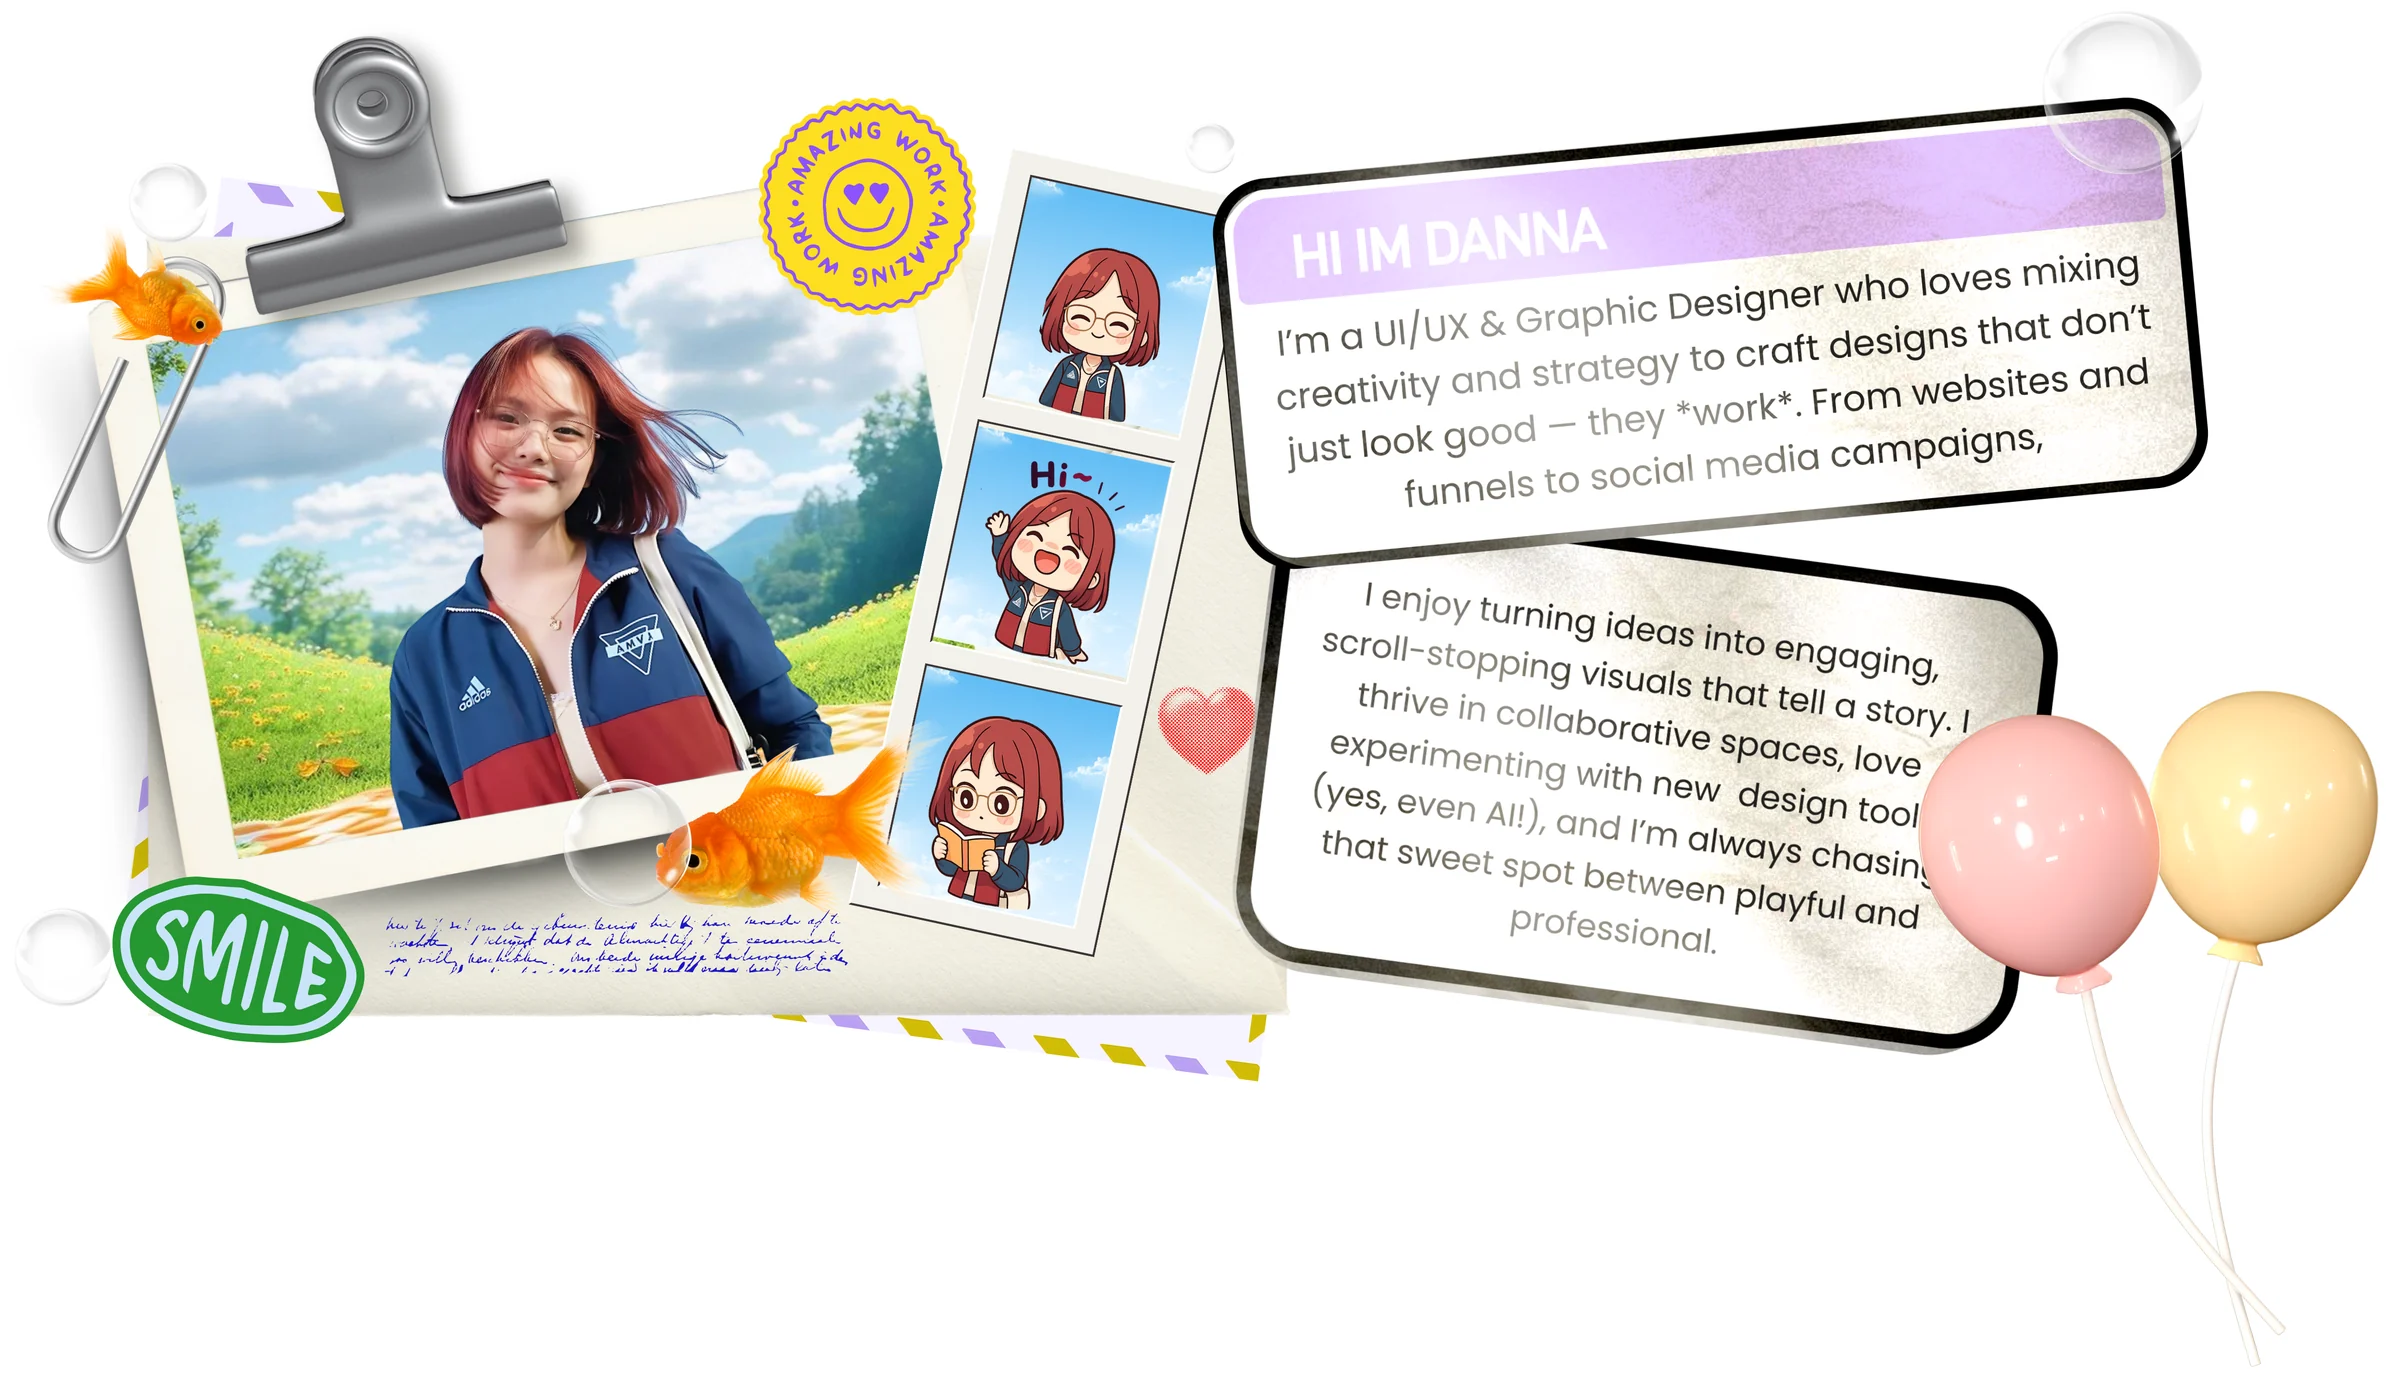
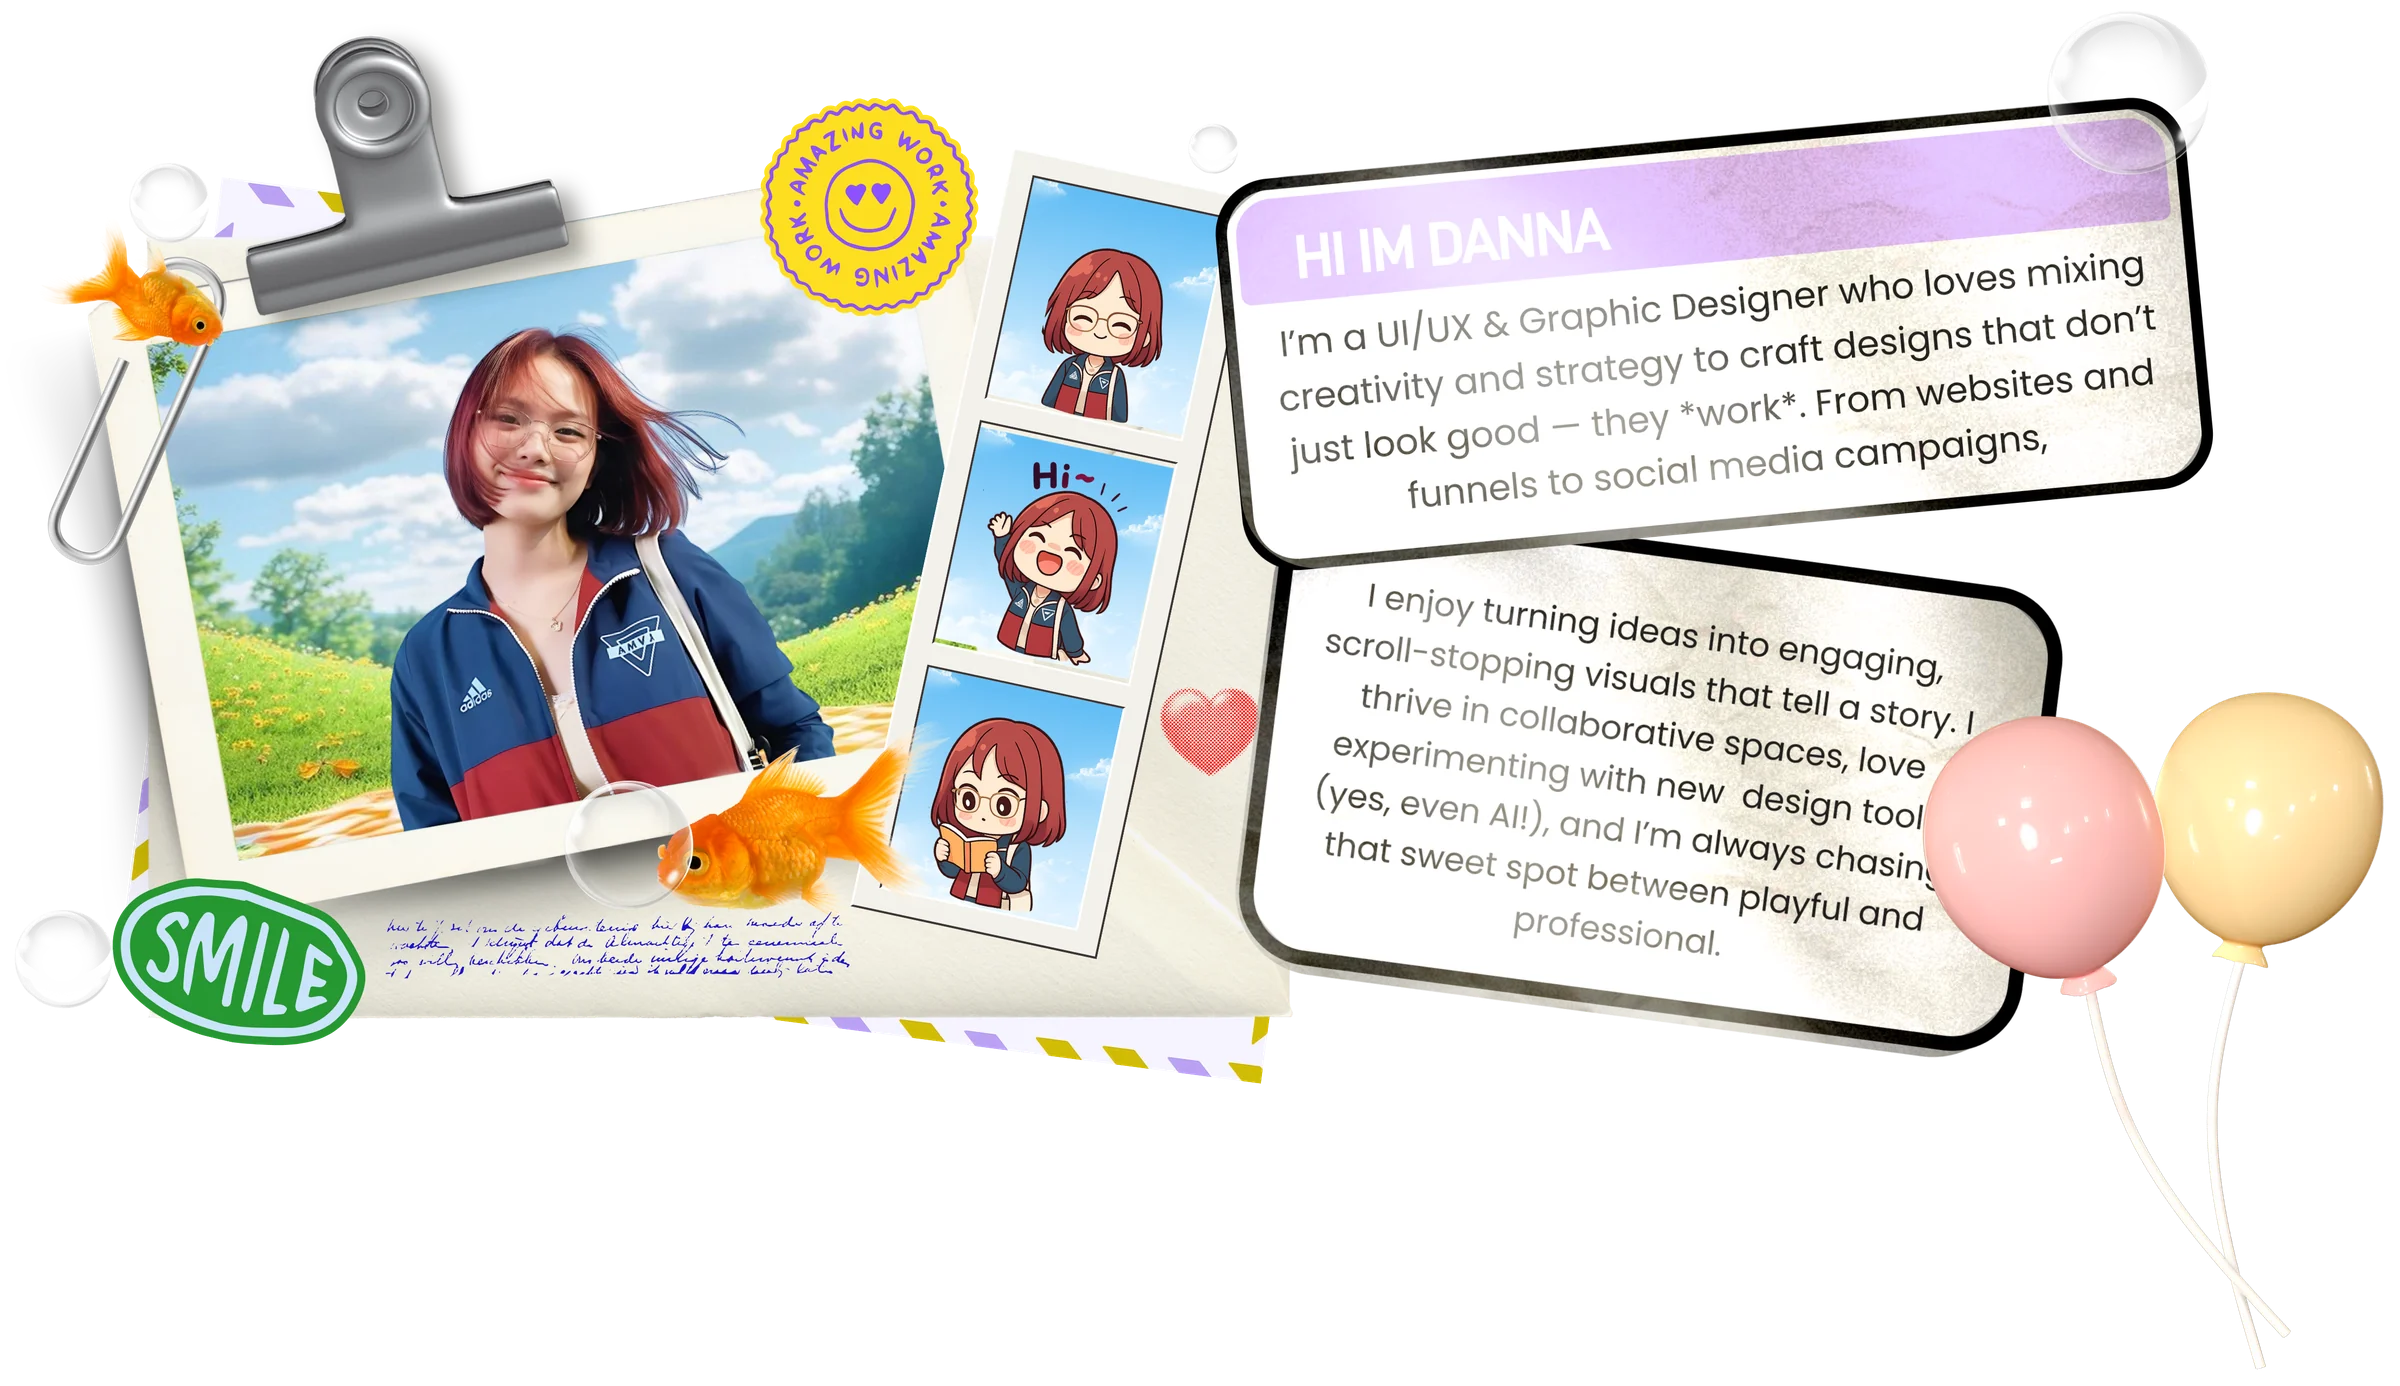
About-me image on pink background
Claude-Session: https://claude.ai/code/session_01WmNa9VKrnsqKtowWKjjSwu

diff --git a/index.html b/index.html
@@ -82,7 +82,7 @@
       <div class="marquee" aria-hidden="true"><div class="marquee-track"><span>about me <b>⬤</b></span><span>about me <b>⬤</b></span><span>about me <b>⬤</b></span><span>about me <b>⬤</b></span><span>about me <b>⬤</b></span><span>about me <b>⬤</b></span><span>about me <b>⬤</b></span><span>about me <b>⬤</b></span><span>about me <b>⬤</b></span><span>about me <b>⬤</b></span><span>about me <b>⬤</b></span><span>about me <b>⬤</b></span><span>about me <b>⬤</b></span><span>about me <b>⬤</b></span></div></div>
       <div class="board-inner">
         <h1 class="sr-only">Hi, I'm Danna</h1>
-        <img class="about-art" src="img/about.webp" srcset="img/t/about.webp 1400w, img/about.webp 2400w" sizes="(max-width: 1240px) 100vw, 1240px" width="2400" height="1388" alt="Hi, I'm Danna. I'm a UI/UX and graphic designer who loves mixing creativity and strategy to craft designs that don't just look good; they work. From websites and funnels to social media campaigns. I enjoy turning ideas into engaging, scroll-stopping visuals that tell a story. I thrive in collaborative spaces, love experimenting with new design tools (yes, even AI!), and I'm always chasing that sweet spot between playful and professional.">
+        <img class="about-art" src="img/about.webp?v=2" srcset="img/t/about.webp?v=2 1400w, img/about.webp?v=2 2400w" sizes="(max-width: 1240px) 100vw, 1240px" width="2400" height="1386" alt="Hi, I'm Danna. I'm a UI/UX and graphic designer who loves mixing creativity and strategy to craft designs that don't just look good; they work. From websites and funnels to social media campaigns. I enjoy turning ideas into engaging, scroll-stopping visuals that tell a story. I thrive in collaborative spaces, love experimenting with new design tools (yes, even AI!), and I'm always chasing that sweet spot between playful and professional.">
       </div>
 
       <ul class="contact">

diff --git a/style.css b/style.css
@@ -98,7 +98,7 @@ ul { margin: 0; padding: 0; list-style: none; }
 .marquee b { font-size: .7em; vertical-align: .12em; }
 @keyframes marquee { to { transform: translateX(-50%); } }
 
-.board-inner { background: #fff; padding: clamp(12px, 2.5vw, 32px); }
+.board-inner { background: var(--pink); padding: clamp(16px, 3vw, 40px); }
 .about-art { width: 100%; height: auto; }
 .board-inner-old {
   position: relative;
